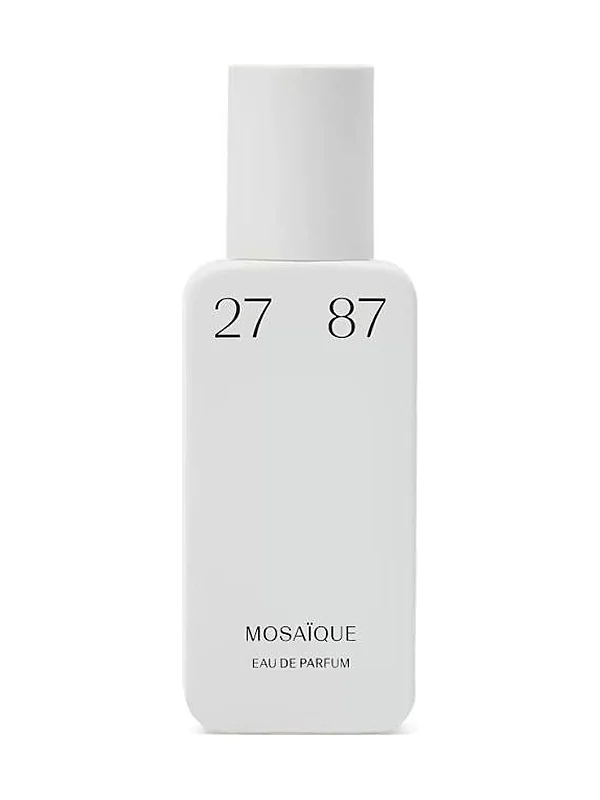
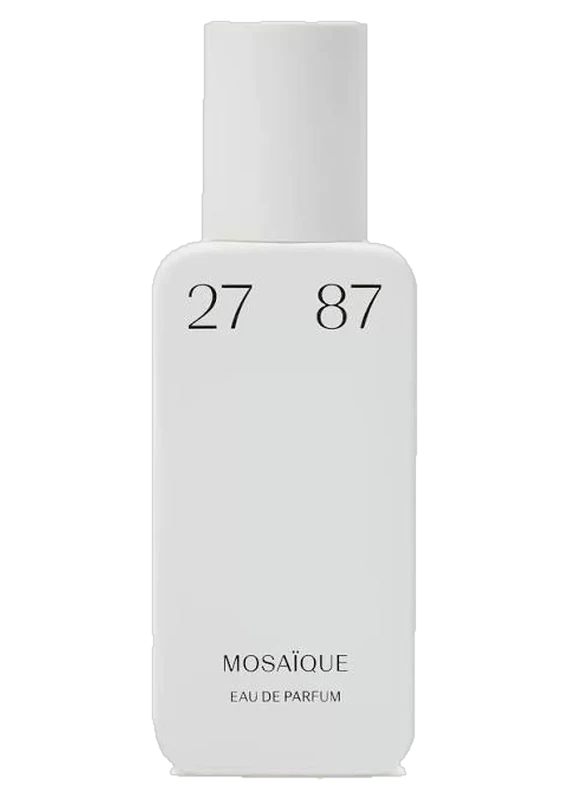
Объёмный флакон: фото без фона, поворот за курсором и наклоном телефона
- у фото 27 87 Mosaique убран белый фон
- карточка с фото поворачивается в перспективе, по стеклу бежит блик
- тень и отражение под флаконом, лёгкое покачивание в покое
- на Android флаконы поворачиваются при наклоне телефона

Claude-Session: https://claude.ai/code/session_01HawxF7uwGs6hTjvkUoQCjp

Changed region(s): [[0.2684, 0.0, 0.7456, 1.0], [0.3877, 0.7812, 0.5965, 0.875]]

diff --git a/styles.css b/styles.css
@@ -24,8 +24,30 @@ button:focus-visible,input:focus-visible,textarea:focus-visible{outline:2px soli
 .grid{display:grid;grid-template-columns:repeat(auto-fill,minmax(250px,1fr));gap:20px;margin-top:28px}
 .card{background:var(--surface);border:1px solid var(--line);border-radius:14px;padding:18px;display:flex;flex-direction:column;gap:14px;min-width:0}
 .stage{height:200px;display:grid;place-items:center;background:radial-gradient(ellipse at 50% 85%,var(--glass),transparent 60%);border-radius:10px;overflow:hidden}
-.stage img{position:absolute;inset:8px;width:calc(100% - 16px);height:calc(100% - 16px);object-fit:contain}
-.stage.has-photo{background:#FFFFFF}
+/* объёмный флакон с фото: перспектива, поворот, блик, тень и отражение */
+.stage.has-photo{perspective:700px;background:
+  radial-gradient(ellipse 60% 30% at 50% 88%,var(--glass),transparent 70%),
+  linear-gradient(180deg,var(--surface),var(--bg));touch-action:pan-y}
+.float{position:absolute;inset:0;display:grid;justify-items:center;transform-style:preserve-3d;animation:bob 5s ease-in-out infinite}
+.obj{position:relative;height:138px;margin-top:14px;transform-style:preserve-3d;
+  transform:rotateX(var(--rx,0deg)) rotateY(var(--ry,-10deg)) translateZ(10px);
+  transition:transform .6s cubic-bezier(.2,.8,.2,1)}
+.is-tilting .obj{transition:transform .12s ease-out}
+.obj img{display:block;height:100%;width:auto;
+  filter:drop-shadow(0 10px 12px rgba(30,20,40,.18)) drop-shadow(0 2px 3px rgba(30,20,40,.12));
+  -webkit-box-reflect:below 4px linear-gradient(transparent 78%,rgba(255,255,255,.22))}
+.shine{position:absolute;inset:0;pointer-events:none;
+  -webkit-mask:var(--m) center/contain no-repeat;mask:var(--m) center/contain no-repeat;
+  background:linear-gradient(100deg,rgba(40,25,50,.16) 0%,transparent 30%,rgba(255,255,255,.75) 48%,transparent 62%,rgba(40,25,50,.2) 100%);
+  background-size:260% 100%;background-position:var(--sx,62%) 0;
+  transition:background-position .6s cubic-bezier(.2,.8,.2,1);mix-blend-mode:soft-light}
+.is-tilting .shine{transition:background-position .12s ease-out}
+.floor{position:absolute;left:50%;bottom:26px;width:74px;height:12px;border-radius:50%;
+  background:radial-gradient(closest-side,rgba(30,20,40,.28),transparent);
+  transform:translateX(calc(-50% + var(--fx,4px)));transition:transform .6s cubic-bezier(.2,.8,.2,1);animation:shadow 5s ease-in-out infinite}
+@keyframes bob{50%{transform:translateY(-6px)}}
+@keyframes shadow{50%{opacity:.6;scale:.9 1}}
+@media (prefers-reduced-motion:reduce){.float,.floor{animation:none}.obj,.shine,.floor{transition:none}}
 .bottle{position:relative;width:78px;height:130px}
 .cap{position:absolute;left:50%;top:0;width:30px;height:26px;transform:translateX(-50%);background:var(--gold);border-radius:4px 4px 2px 2px}
 .neck{position:absolute;left:50%;top:24px;width:16px;height:10px;transform:translateX(-50%);background:var(--line)}

diff --git a/index.html b/index.html
@@ -117,7 +117,12 @@ const locBadges = loc => [...(loc || "")].filter(k => LOCS[k]).map(k =>
 const isNew = p => /новинка/i.test(p.description || "");
 
 function bottle(p) {
-  if (p.photo_url) return `<img src="${esc(p.photo_url)}" alt="${esc(p.house + " " + p.name)}" loading="lazy">`;
+  if (p.photo_url) return `
+    <span class="floor" aria-hidden="true"></span>
+    <div class="float"><div class="obj">
+      <img src="${esc(p.photo_url)}" alt="${esc(p.house + " " + p.name)}" loading="lazy">
+      <span class="shine" style="--m:url('${esc(p.photo_url)}')" aria-hidden="true"></span>
+    </div></div>`;
   const pct = p.ml_left != null && p.bottle_volume ? Math.max(0, Math.min(100, p.ml_left / p.bottle_volume * 100)) : 70;
   return `<div class="bottle" aria-hidden="true"><div class="cap"></div><div class="neck"></div><div class="flask"><div class="liquid" style="height:${pct}%;background:${esc(p.color || "#6E3F84")}"></div></div></div>`;
 }
@@ -168,6 +173,37 @@ $("chips").addEventListener("click", e => {
   $("chips").querySelectorAll("button").forEach(x => x.setAttribute("aria-pressed", x === b));
   draw();
 });
+
+// ---- объёмный флакон: поворот за курсором или пальцем, наклон телефона
+function tiltTo(stage, x, y) { // x, y от -1 до 1
+  stage.style.setProperty("--ry", (x * 26).toFixed(1) + "deg");
+  stage.style.setProperty("--rx", (-y * 14).toFixed(1) + "deg");
+  stage.style.setProperty("--sx", (50 - x * 45).toFixed(0) + "%");
+  stage.style.setProperty("--fx", (x * 14).toFixed(0) + "px");
+}
+function untilt(stage) { ["--ry", "--rx", "--sx", "--fx"].forEach(v => stage.style.removeProperty(v)); stage.classList.remove("is-tilting"); }
+$("grid").addEventListener("pointermove", e => {
+  const stage = e.target.closest(".stage.has-photo"); if (!stage) return;
+  const r = stage.getBoundingClientRect();
+  stage.classList.add("is-tilting");
+  tiltTo(stage, ((e.clientX - r.left) / r.width) * 2 - 1, ((e.clientY - r.top) / r.height) * 2 - 1);
+});
+$("grid").addEventListener("pointerout", e => {
+  const stage = e.target.closest(".stage.has-photo");
+  if (stage && !stage.contains(e.relatedTarget)) untilt(stage);
+});
+// на телефонах без запроса разрешения (Android) флаконы поворачиваются при наклоне
+if (window.DeviceOrientationEvent && typeof DeviceOrientationEvent.requestPermission !== "function" && matchMedia("(pointer: coarse)").matches) {
+  let raf = 0;
+  addEventListener("deviceorientation", e => {
+    if (e.gamma == null || raf) return;
+    raf = requestAnimationFrame(() => {
+      raf = 0;
+      const x = Math.max(-1, Math.min(1, e.gamma / 30)), y = Math.max(-1, Math.min(1, (e.beta - 45) / 40));
+      document.querySelectorAll(".stage.has-photo").forEach(s => tiltTo(s, x, y));
+    });
+  });
+}
 
 // ---- заказ
 function openOrder(id) {
